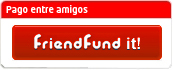
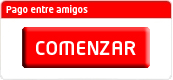
packaged tabv2, lavida button, spanish pool tips

diff --git a/friendfund/public/js/tabv2.js b/friendfund/public/js/tabv2.js
@@ -1,1 +1,1 @@
-if(!FriendFund){var FriendFund={}}FriendFund.Util={render:function(a,b){return a.replace(/\${([^{}]*)}/g,function(d,c){var e=b[c];return typeof e==="string"||typeof e==="number"?e:d})},includeCss:function(b){var a=document.createElement("style");a.setAttribute("type","text/css");a.setAttribute("media","screen");if(a.styleSheet){a.styleSheet.cssText=b}else{a.appendChild(document.createTextNode(b))}document.getElementsByTagName("head")[0].appendChild(a)},get_tags:function(){var d={},a,e;var c=document.getElementsByTagName("META");for(var b=0;b<c.length;b++){e=c[b].getAttribute("property");a=c[b].name;if(a&&!e){d["ff.names."+a]=c[b].content}else{if(!a&&e){d["ff.props."+e]=c[b].content}}}d.referer=window.location.href;return d}};FriendFund.Logger={_log:function(a){if(typeof console!=="undefined"&&typeof console.log!=="undefined"){try{console.log(a)}catch(b){}}},warning:function(a){this._log("FriendFund WARNING: "+a)},error:function(a){this._log("FriendFund ERROR: "+a);alert("FriendFund ERROR: "+a)}};FriendFund.Element={getDimensions:function(c){var g=c.display;if(g!="none"&&g!=null){return{width:c.offsetWidth,height:c.offsetHeight}}var b=c.style;var f=b.visibility;var d=b.position;var a=b.display;b.visibility="hidden";b.position="absolute";b.display="block";var h=c.clientWidth;var e=c.clientHeight;b.display=a;b.position=d;b.visibility=f;return{width:h,height:e}},hasClassName:function(a,b){var c=a.className;return(c.length>0&&(c==b||new RegExp("(^|\\s)"+b+"(\\s|$)").test(c)))},addClassName:function(a,b){if(!this.hasClassName(a,b)){a.className+=(a.className?" ":"")+b}return a},removeClassName:function(a,b){a.className=a.className.replace(new RegExp("(^|\\s+)"+b+"(\\s+|$)")," ");return a}};FriendFund.Page={getDimensions:function(){var f=document.documentElement,b=document.body,d=window.innerWidth||self.innerWidth||(f&&f.clientWidth)||b.clientWidth,a=window.innerHeight||self.innerHeight||(f&&f.clientHeight)||b.clientHeight,c=Math.max(window.pageXOffset?window.pageXOffset:0,f?f.scrollLeft:0,b?b.scrollLeft:0),e=Math.max(window.pageYOffset?window.pageYOffset:0,f?f.scrollTop:0,b?b.scrollTop:0);return{width:d,height:a,xOffset:c,yOffset:e}},getDocHeight:function(){var b=document,a=Math.max;return a(a(b.body.scrollHeight,b.documentElement.scrollHeight),a(b.body.offsetHeight,b.documentElement.offsetHeight),a(b.body.clientHeight,b.documentElement.clientHeight))}};FriendFund.Popup={id:"FriendFund_Popup",close_text:{de:"Schliessen",en:"Close This",es:"Cerrar"},css_template:"#FriendFund_Popup {z-index:10000008;display: block;text-align: left;margin: 0 auto 0 auto;position: absolute;padding:10px;background:url(${protocol}${host}/static/partner/opacity.png) repeat 0 0 transparent;}#FriendFund_Popup-content{background-color:white}#FriendFund_overlay {position: fixed;z-index:10000007;width: 100%;height: 100%;left: 0;top: 0;background-color: #000;opacity: 0.7;filter: alpha(opacity=70);}#FriendFund_overlay p {padding: 5px;color: #ddd;font: bold 14px arial, sans-serif;margin: 0;letter-spacing: -1px;}a#FriendFund_Popup_close {color:black;cursor:pointer;font-size:16px;font-weight:bold;line-height:15px;text-decoration:None;position:absolute;right:-10px;top:-10px;background:url(${protocol}${host}/static/partner/close_popup_cross.png) no-repeat 0 0 transparent;display:block;width:33px;height:33px;",preload:function(c){if(!this.preloaded){var b=document.getElementById(c);var a=(b==null)?c:b.innerHTML;this.setContent(a)}},show:function(b,a){this.options=a;this.preload(b);this.Overlay.show();this.setPosition();FriendFund.Element.addClassName(this.htmlElement(),"dialog-open");this.element().style.display="block";this.element().focus()},close:function(){this.element().style.display="none";FriendFund.Element.removeClassName(this.htmlElement(),"dialog-open");this.Overlay.hide();FriendFund.onClose()},element:function(){if(!document.getElementById(this.id)){var a=document.createElement("div");a.innerHTML='<div id="'+this.id+'" style="display:none;"><a href="#close" onclick="FriendFund.Popup.close(); return false;" id="'+this.id+'_close" title="'+this.close_text[this.options.lang]+'"><span style="display: none;">Close Popup</span></a><div id="'+this.id+'-content"></div></div>';document.body.insertBefore(a.firstChild,document.body.firstChild)}return document.getElementById(this.id)},setContent:function(a){this.element();document.getElementById(this.id+"-content").innerHTML=a},setPosition:function(){var d=FriendFund.Element.getDimensions(this.element());var b=FriendFund.Page.getDimensions();var a=this.element().style;a.width="auto";a.height="auto";a.left=(b.xOffset+(b.width-d.width)/2)+"px";var c=(b.yOffset+(b.height-d.height)/2);a.top=Math.max(c,0)+"px"},htmlElement:function(){return document.getElementsByTagName("html")[0]}};FriendFund.onClose=function(){};FriendFund.Popup.Overlay={show:function(){this.get_element().style.display="Block"},hide:function(){this.get_element().style.display="None"},olay_id:"FriendFund_overlay",get_element:function(){if(!document.getElementById(this.olay_id)){olay=document.createElement("div");olay.innerHTML='<div id="'+this.olay_id+'" class="FriendFund_popup_elem" onclick="FriendFund.Popup.close(); return false;" style="display:none;"></div>';document.body.insertBefore(olay.firstChild,document.body.firstChild)}return document.getElementById(this.olay_id)}};FriendFund.Popin={context:{width:"930px",height:"580px"},content_template:'<iframe id="friendfund_dialog_iframe" name="friendfund_dialog_iframe" src="" frameborder="0" scrolling="no" allowtransparency="true" width="${width}" height="${height}" style="height: ${height}; width: ${width};"></iframe>',setup:function(a){this.setupOptions(a)},setupOptions:function(a){if(typeof(a)==="undefined"){return}if(a.key==null&&a.host==null){FriendFund.Logger.error("'host' must be set.");FriendFund.Logger.error("'key' must be set.")}else{if(a.key==null){FriendFund.Logger.warning("'key' must be set for the widget to work.")}}this.options=a},show:function(b){this.setupOptions(b);FriendFund.Popup.show(FriendFund.Util.render(this.content_template,this.context),b);try{var c=document.getElementById("friendfund_dialog_iform");if(c){document.body.removeChild(c)}var a=function(e,j){var i=document.createElement("form");i.setAttribute("id","friendfund_dialog_iform");i.setAttribute("method","POST");i.setAttribute("action",e);i.setAttribute("target","friendfund_dialog_iframe");for(var g in j){var h=document.createElement("input");h.setAttribute("type","hidden");h.setAttribute("name",g);h.setAttribute("value",j[g]);i.appendChild(h)}document.body.appendChild(i);i.submit()};var f=FriendFund.Util.get_tags();f.key=b.key;f.host=b.host;f.real_host=window.location.host;a(this.url(b),f)}catch(d){FriendFund.Logger.warning("Error sending the 'open' notification");FriendFund.Logger.warning(d)}},url:function(a){return a.protocol+a.host+"/partner/bounce"}};FriendFund.Button={button_id:"friendfund_fund_button",css_template:"#${button_id} {margin: 10px 0;width: auto;background:${button_background};padding: 7px 0 5px;}#${button_id} a {background:None !important;width:auto;height:auto;text-indent: 0;}#${button_id}:hover {cursor:pointer}#${button_id} *, #${button_id} *:hover {text-decoration:none !important; font-weight:normal !important}#${button_id} .friendfundButton{pointer:cursor;display:block;text-align:center;padding:0;}#${button_id} .friendfundButton img{margin:0px auto;}#${button_id} .friendfundButton span{text-transform: none;padding:0;font-size:10px;margin:0px auto;color:#a6a6a6;text-shadow: 0px 1px 0px white;display:block}",fixed_css_template:"#${button_id} {position:absolute;${alignment}:-150px;top:${top};width:196px;height:122px;} #${button_id}:hover {${alignment}:0px;cursor:pointer} #${button_id} .friendfundButton{pointer:cursor;color:white;width:196px;height:172px;background:url(${protocol}${host}/static/partner/buttons/friendfund_it_button_complete.png) no-repeat 0 0 transparent;display:block}",show:function(c){FriendFund.Popin.setup(c);this.button_id=c.button_id||this.button_id;var d=document.createElement("A");d.id="friendfund_button";d.className="friendfundButton";d.onclick=function(){FriendFund.Popin.show(c);return false};if(!document.getElementById(this.button_id)){var f=document.createElement("div");f.id=this.button_id;document.body.insertBefore(f,document.body.firstChild);var g=FriendFund.Page.getDimensions();var e=((g.height-143)/2);c.css_template=FriendFund.Util.render(this.fixed_css_template,{top:Math.max(e,55)+"px"});d.innerHTML="&nbsp;"}else{c.css_template=this.css_template;var a=document.createElement("IMG");a.src=FriendFund.Util.render("${protocol}${host}/static/partner/buttons/friendfund_it_button_${button_size}_${button_color}.png",c);d.appendChild(a);if(c.with_strap_line){var b=document.createElement("SPAN");b.innerHTML=c.button_text[c.lang];d.appendChild(b)}}c.docHeight=FriendFund.Page.getDocHeight();document.getElementById(this.button_id).appendChild(d);FriendFund.Util.includeCss(FriendFund.Util.render(c.css_template||this.css_template,c));FriendFund.Util.includeCss(FriendFund.Util.render(FriendFund.Popup.css_template,c))}};if(typeof(friendfundOptions)!=="undefined"&&friendfundOptions.showButton==true){defaultOptions={alignment:"left",lang:"en",button_text:{es:"Comparte los gastos con amigos!",en:"Share the costs with friends!",de:"Teile die Kosten mit Freunden!"},button_background:"#f4f4f4",button_size:"large",button_color:"blue",with_strap_line:true};for(var option in defaultOptions){friendfundOptions[option]=(friendfundOptions[option]===undefined)?defaultOptions[option]:friendfundOptions[option]}FriendFund.Button.show(friendfundOptions)};
+if(!FriendFund){var FriendFund={}}FriendFund.Util={render:function(a,b){return a.replace(/\${([^{}]*)}/g,function(d,c){var e=b[c];return typeof e==="string"||typeof e==="number"?e:d})},includeCss:function(b){var a=document.createElement("style");a.setAttribute("type","text/css");a.setAttribute("media","screen");if(a.styleSheet){a.styleSheet.cssText=b}else{a.appendChild(document.createTextNode(b))}document.getElementsByTagName("head")[0].appendChild(a)},get_tags:function(){var d={},a,e;var c=document.getElementsByTagName("META");for(var b=0;b<c.length;b++){e=c[b].getAttribute("property");a=c[b].name;if(a&&!e){d["ff.names."+a]=c[b].content}else{if(!a&&e){d["ff.props."+e]=c[b].content}}}d.referer=window.location.href;return d}};FriendFund.Logger={_log:function(a){if(typeof console!=="undefined"&&typeof console.log!=="undefined"){try{console.log(a)}catch(b){}}},warning:function(a){this._log("FriendFund WARNING: "+a)},error:function(a){this._log("FriendFund ERROR: "+a);alert("FriendFund ERROR: "+a)}};FriendFund.Element={getDimensions:function(c){var g=c.display;if(g!="none"&&g!=null){return{width:c.offsetWidth,height:c.offsetHeight}}var b=c.style;var f=b.visibility;var d=b.position;var a=b.display;b.visibility="hidden";b.position="absolute";b.display="block";var h=c.clientWidth;var e=c.clientHeight;b.display=a;b.position=d;b.visibility=f;return{width:h,height:e}},hasClassName:function(a,b){var c=a.className;return(c.length>0&&(c==b||new RegExp("(^|\\s)"+b+"(\\s|$)").test(c)))},addClassName:function(a,b){if(!this.hasClassName(a,b)){a.className+=(a.className?" ":"")+b}return a},removeClassName:function(a,b){a.className=a.className.replace(new RegExp("(^|\\s+)"+b+"(\\s+|$)")," ");return a}};FriendFund.Page={getDimensions:function(){var f=document.documentElement,b=document.body,d=window.innerWidth||self.innerWidth||(f&&f.clientWidth)||b.clientWidth,a=window.innerHeight||self.innerHeight||(f&&f.clientHeight)||b.clientHeight,c=Math.max(window.pageXOffset?window.pageXOffset:0,f?f.scrollLeft:0,b?b.scrollLeft:0),e=Math.max(window.pageYOffset?window.pageYOffset:0,f?f.scrollTop:0,b?b.scrollTop:0);return{width:d,height:a,xOffset:c,yOffset:e}},getDocHeight:function(){var b=document,a=Math.max;return a(a(b.body.scrollHeight,b.documentElement.scrollHeight),a(b.body.offsetHeight,b.documentElement.offsetHeight),a(b.body.clientHeight,b.documentElement.clientHeight))}};FriendFund.Popup={id:"FriendFund_Popup",close_text:{de:"Schliessen",en:"Close This",es:"Cerrar"},css_template:"#FriendFund_Popup {z-index:10000008;display: block;text-align: left;margin: 0 auto 0 auto;position: absolute;padding:10px;background:url(${protocol}${host}/static/partner/opacity.png) repeat 0 0 transparent;}#FriendFund_Popup-content{background-color:white}#FriendFund_overlay {position: fixed;z-index:10000007;width: 100%;height: 100%;left: 0;top: 0;background-color: #000;opacity: 0.7;filter: alpha(opacity=70);}#FriendFund_overlay p {padding: 5px;color: #ddd;font: bold 14px arial, sans-serif;margin: 0;letter-spacing: -1px;}a#FriendFund_Popup_close {color:black;cursor:pointer;font-size:16px;font-weight:bold;line-height:15px;text-decoration:None;position:absolute;right:-10px;top:-10px;background:url(${protocol}${host}/static/partner/close_popup_cross.png) no-repeat 0 0 transparent;display:block;width:33px;height:33px;",preload:function(c){if(!this.preloaded){var b=document.getElementById(c);var a=(b==null)?c:b.innerHTML;this.setContent(a)}},show:function(b,a){this.options=a;this.preload(b);this.Overlay.show();this.setPosition();FriendFund.Element.addClassName(this.htmlElement(),"dialog-open");this.element().style.display="block";this.element().focus()},close:function(){this.element().style.display="none";FriendFund.Element.removeClassName(this.htmlElement(),"dialog-open");this.Overlay.hide();FriendFund.onClose()},element:function(){if(!document.getElementById(this.id)){var a=document.createElement("div");a.innerHTML='<div id="'+this.id+'" style="display:none;"><a href="#close" onclick="FriendFund.Popup.close(); return false;" id="'+this.id+'_close" title="'+this.close_text[this.options.lang]+'"><span style="display: none;">Close Popup</span></a><div id="'+this.id+'-content"></div></div>';document.body.insertBefore(a.firstChild,document.body.firstChild)}return document.getElementById(this.id)},setContent:function(a){this.element();document.getElementById(this.id+"-content").innerHTML=a},setPosition:function(){var d=FriendFund.Element.getDimensions(this.element());var b=FriendFund.Page.getDimensions();var a=this.element().style;a.width="auto";a.height="auto";a.left=(b.xOffset+(b.width-d.width)/2)+"px";var c=(b.yOffset+(b.height-d.height)/2);a.top=Math.max(c,0)+"px"},htmlElement:function(){return document.getElementsByTagName("html")[0]}};FriendFund.onClose=function(){};FriendFund.Popup.Overlay={show:function(){this.get_element().style.display="Block"},hide:function(){this.get_element().style.display="None"},olay_id:"FriendFund_overlay",get_element:function(){if(!document.getElementById(this.olay_id)){olay=document.createElement("div");olay.innerHTML='<div id="'+this.olay_id+'" class="FriendFund_popup_elem" onclick="FriendFund.Popup.close(); return false;" style="display:none;"></div>';document.body.insertBefore(olay.firstChild,document.body.firstChild)}return document.getElementById(this.olay_id)}};FriendFund.Popin={context:{width:"930px",height:"580px"},content_template:'<iframe id="friendfund_dialog_iframe" name="friendfund_dialog_iframe" src="" frameborder="0" scrolling="no" allowtransparency="true" width="${width}" height="${height}" style="height: ${height}; width: ${width};"></iframe>',setup:function(a){this.setupOptions(a)},setupOptions:function(a){if(typeof(a)==="undefined"){return}if(a.key==null&&a.host==null){FriendFund.Logger.error("'host' must be set.");FriendFund.Logger.error("'key' must be set.")}else{if(a.key==null){FriendFund.Logger.warning("'key' must be set for the widget to work.")}}this.options=a},show:function(b){this.setupOptions(b);FriendFund.Popup.show(FriendFund.Util.render(this.content_template,this.context),b);try{var c=document.getElementById("friendfund_dialog_iform");if(c){document.body.removeChild(c)}var a=function(e,j){var i=document.createElement("form");i.setAttribute("id","friendfund_dialog_iform");i.setAttribute("method","POST");i.setAttribute("action",e);i.setAttribute("target","friendfund_dialog_iframe");for(var g in j){var h=document.createElement("input");h.setAttribute("type","hidden");h.setAttribute("name",g);h.setAttribute("value",j[g]);i.appendChild(h)}document.body.appendChild(i);i.submit()};var f=FriendFund.Util.get_tags();f.key=b.key;f.host=b.host;f.real_host=window.location.host;a(this.url(b),f)}catch(d){FriendFund.Logger.warning("Error sending the 'open' notification");FriendFund.Logger.warning(d)}},url:function(a){return a.protocol+a.host+"/partner/bounce"}};FriendFund.Button={button_id:"friendfund_fund_button",css_template:"#${button_id} {margin: 10px 0;width: auto;background:${button_background};padding: 7px 0 5px;}#${button_id} a {background:None !important;width:auto;height:auto;text-indent: 0;}#${button_id}:hover {cursor:pointer}#${button_id} *, #${button_id} *:hover {text-decoration:none !important; font-weight:normal !important}#${button_id} .friendfundButton{pointer:cursor;display:block;text-align:${alignment};padding:0;}#${button_id} .friendfundButton img{margin:0px auto;}#${button_id} .friendfundButton span{text-transform: none;padding:0;font-size:10px;margin:0px auto;color:#a6a6a6;text-shadow: 0px 1px 0px white;display:block}",fixed_css_template:"#${button_id} {position:absolute;left:-150px;top:${top};width:196px;height:122px;} #${button_id}:hover {left:0px;cursor:pointer} #${button_id} .friendfundButton{pointer:cursor;color:white;width:196px;height:172px;background:url(${protocol}${host}/static/partner/buttons/friendfund_it_button_complete.png) no-repeat 0 0 transparent;display:block}",show:function(c){FriendFund.Popin.setup(c);this.button_id=c.button_id||this.button_id;var d=document.createElement("A");d.id="friendfund_button";d.className="friendfundButton";d.onclick=function(){FriendFund.Popin.show(c);return false};if(!document.getElementById(this.button_id)){var f=document.createElement("div");f.id=this.button_id;document.body.insertBefore(f,document.body.firstChild);var g=FriendFund.Page.getDimensions();var e=((g.height-143)/2);c.css_template=FriendFund.Util.render(this.fixed_css_template,{top:Math.max(e,55)+"px"});d.innerHTML="&nbsp;"}else{c.css_template=this.css_template;var a=document.createElement("IMG");a.src=FriendFund.Util.render("${protocol}${host}/static/partner/buttons/friendfund_it_button_${button_size}_${button_color}.png",c);d.appendChild(a);if(c.with_strap_line){var b=document.createElement("SPAN");b.innerHTML=c.button_text[c.lang];d.appendChild(b)}}c.docHeight=FriendFund.Page.getDocHeight();document.getElementById(this.button_id).appendChild(d);FriendFund.Util.includeCss(FriendFund.Util.render(c.css_template||this.css_template,c));FriendFund.Util.includeCss(FriendFund.Util.render(FriendFund.Popup.css_template,c))}};if(typeof(friendfundOptions)!=="undefined"&&friendfundOptions.showButton==true){defaultOptions={alignment:"center",lang:"en",button_text:{es:"Comparte los gastos con amigos!",en:"Share the costs with friends!",de:"Teile die Kosten mit Freunden!"},button_background:"#f4f4f4",button_size:"large",button_color:"blue",with_strap_line:true};for(var option in defaultOptions){friendfundOptions[option]=(friendfundOptions[option]===undefined)?defaultOptions[option]:friendfundOptions[option]}FriendFund.Button.show(friendfundOptions)};

diff --git a/friendfund/public/partner/samples/LIVE_SAMPLES/lavidaesbella_product1.html b/friendfund/public/partner/samples/LIVE_SAMPLES/lavidaesbella_product1.html
@@ -28,14 +28,14 @@
     <link href="http://www.lavidaesbella.es/skins/Skin_1/styles/form.css" rel="stylesheet" type="text/css" />    
 
     <link href="http://www.lavidaesbella.es/Telerik/FormDecorator.LavebSkin.css" rel="stylesheet" type="text/css" />    
-			<meta name="og:type" content="product" />
-			<meta name="og:name" content="Adrenalina Extrema" />
-			<meta name="og:price" content="17490" />
-			<meta name="og:shipping_handling" content="0" />
-			<meta name="og:currency" content="EUR" />
-			<meta name="og:product_id" content="1" />
-			<meta name="og:image" content="http://lavidaesbella.es/images/product/medium/3940.jpg" />
-			<meta name="og:description" content="Con la Tarjeta Regalo Adrenalina Extrema disfrutarás de una de sus 290 Experiencias al Límite para 1 ó 2 personas. Aire: en globo, en parapente, en ultraligero, en paratrike, paramotor, en avioneta; Mar: en lancha rápida, buceando, haciendo windsurf, sky acuático, en moto de agua; Tierra: en moto deportiva, en un Ferrari, Lamborghini, Porche, en quad, en 4x4. Ningún espacio te limita. ¡Recórrelos todos!" />
+			<meta property="og:type" content="product" />
+			<meta property="og:name" content="Adrenalina Extrema" />
+			<meta property="og:price" content="17490" />
+			<meta property="og:shipping_handling" content="0" />
+			<meta property="og:currency" content="EUR" />
+			<meta property="og:product_id" content="1" />
+			<meta property="og:image" content="http://lavidaesbella.es/images/product/medium/3940.jpg" />
+			<meta property="og:description" content="Con la Tarjeta Regalo Adrenalina Extrema disfrutarás de una de sus 290 Experiencias al Límite para 1 ó 2 personas. Aire: en globo, en parapente, en ultraligero, en paratrike, paramotor, en avioneta; Mar: en lancha rápida, buceando, haciendo windsurf, sky acuático, en moto de agua; Tierra: en moto deportiva, en un Ferrari, Lamborghini, Porche, en quad, en 4x4. Ningún espacio te limita. ¡Recórrelos todos!" />
 
     
 
@@ -4994,7 +4994,7 @@ urchinTracker();
 var friendfundOptions = {
 /* required */key:"lavidaesbella",host:"lavidaesbella.friendfund.com",
 lang: 'es', showButton: true,button_id:'friendfund_fund_button',
-button_color:"lavidaesbella",with_strap_line:false,button_background:"transparent",
+button_color:"lavidaesbella",with_strap_line:false,button_background:"transparent",button_color:"lavidaesbella",
 /* optional */protocol :"https:"== document.location.protocol ? "https://" : "http://"};
 function _loadFriendFundButton() {var s =
 document.createElement('script');s.setAttribute('type','text/javascript');s.setAttribute('src'

diff --git a/friendfund/public/js/tab.js b/friendfund/public/js/tab.js
@@ -238,11 +238,11 @@ FriendFund.Button = {
 #${button_id} a {background:None !important;width:auto;height:auto;text-indent: 0;}\
 #${button_id}:hover {cursor:pointer}\
 #${button_id} *, #${button_id} *:hover {text-decoration:none !important; font-weight:normal !important}\
-#${button_id} .friendfundButton{pointer:cursor;display:block;text-align:center;padding:0;}\
+#${button_id} .friendfundButton{pointer:cursor;display:block;text-align:${alignment};padding:0;}\
 #${button_id} .friendfundButton img{margin:0px auto;}\
 #${button_id} .friendfundButton span{text-transform: none;padding:0;font-size:10px;margin:0px auto;color:#a6a6a6;text-shadow: 0px 1px 0px white;display:block}",
-	fixed_css_template: "#${button_id} {position:absolute;${alignment}:-150px;top:${top};width:196px;height:122px;} \
-#${button_id}:hover {${alignment}:0px;cursor:pointer} \
+	fixed_css_template: "#${button_id} {position:absolute;left:-150px;top:${top};width:196px;height:122px;} \
+#${button_id}:hover {left:0px;cursor:pointer} \
 #${button_id} .friendfundButton{pointer:cursor;color:white;width:196px;height:172px;\
 background:url(${protocol}${host}/static/partner/buttons/friendfund_it_button_complete.png) no-repeat 0 0 transparent;display:block}",
 	
@@ -279,7 +279,7 @@ background:url(${protocol}${host}/static/partner/buttons/friendfund_it_button_co
 	 }
 }
 if (typeof(friendfundOptions) !== 'undefined' && friendfundOptions.showButton == true) {
-	defaultOptions = {alignment:"left", lang:"en"
+	defaultOptions = {alignment:"center", lang:"en"
 					, button_text:{es:"Comparte los gastos con amigos!", en:"Share the costs with friends!", de:"Teile die Kosten mit Freunden!"}
 					, button_background:"#f4f4f4", button_size:"large", button_color:"blue",with_strap_line:true};
 	for(var option in defaultOptions){friendfundOptions[option] = (friendfundOptions[option]===undefined)?defaultOptions[option]:friendfundOptions[option];}

diff --git a/friendfund/templates/content/localized/pool_tips_es.html b/friendfund/templates/content/localized/pool_tips_es.html
@@ -28,7 +28,7 @@
 		</div>
 		<div class="colRightWhite"></div>
 		<h5>Crea un bote para algo tangible.</h5>
-		<p>friendfund significa la colaboración financiera entre amigos para un proyecto específico, sea lo que sea. Tus amigos les encantará involucrarse cuando el bote es para algo “real”.</p>
+		<p>Juntos lo podemos conseguir.</p>
 	</div>
 	<div class="floatLeft colTips">
 		<div>
@@ -37,7 +37,7 @@
 			</div>
 		</div>
 		<h5>Menos es más.</h5>
-		<p>Puedes empezar invitando a los amigos que participan directamente en el bote. Menos amigos con una conexión genuina, tienen una mayor probabilidad de alcanzar la financiación del bote.</p>
+		<p>Mantén la lista de invitados lo más corta posible</p>
 	</div>
 	<div class="floatLeft colTips omega">
 		<div>
@@ -46,7 +46,6 @@
 			</div>
 		</div>
 		<h5>Comparte!</h5>
-		<p>friendfund tiene un montón de excelentes herramientas para compartir tu bote, así como un widget para tu sitio o blog
-		</p>
+		<p>Anúncialo usando el Widget y a través de las redes sociales.</p>
 	</div>
 </%def>

diff --git a/friendfund/public/partner/samples/demo/lavidaesbella_product1.html b/friendfund/public/partner/samples/demo/lavidaesbella_product1.html
@@ -4995,7 +4995,7 @@ urchinTracker();
 var friendfundOptions = {
 /* required */key:"lavidaesbella",host:"lavidaesbella.friendfund.de",
 lang: 'es', showButton: true,button_id:'friendfund_fund_button',
-button_color:"lavidaesbella",with_strap_line:false,button_background:"white",
+button_color:"lavidaesbella",with_strap_line:false,button_background:"white",button_color:"lavidaesbella",
 /* optional */protocol :"https:"== document.location.protocol ? "https://" : "http://"};
 function _loadFriendFundButton() {var s =
 document.createElement('script');s.setAttribute('type','text/javascript');s.setAttribute('src'
